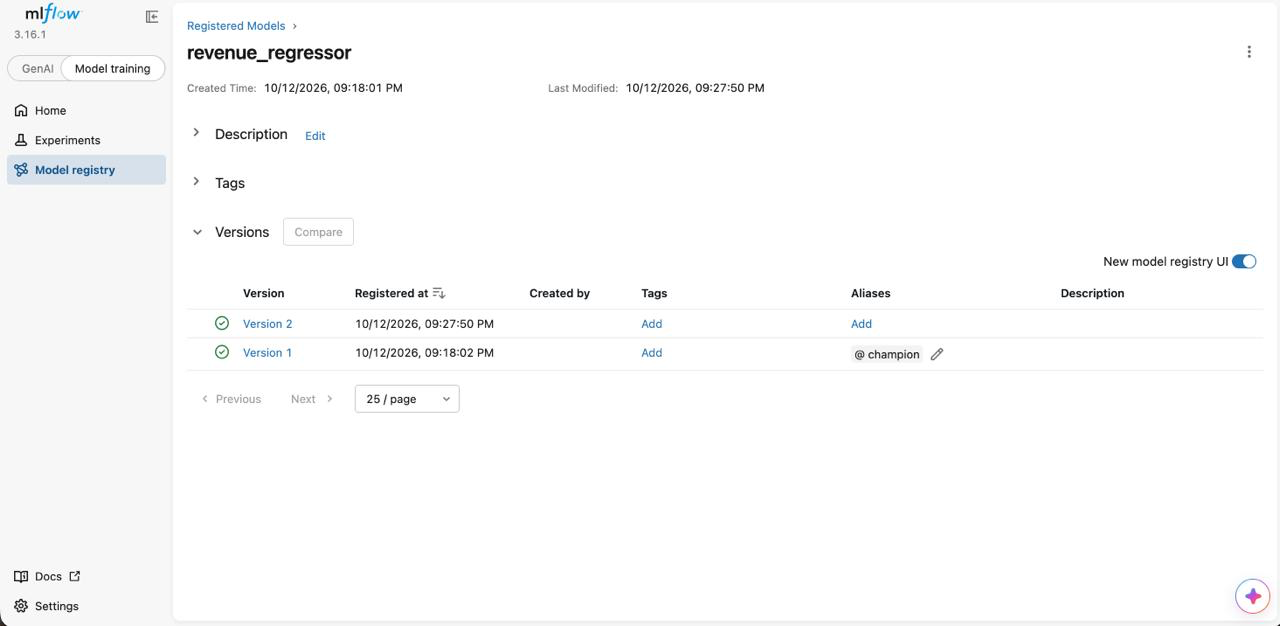
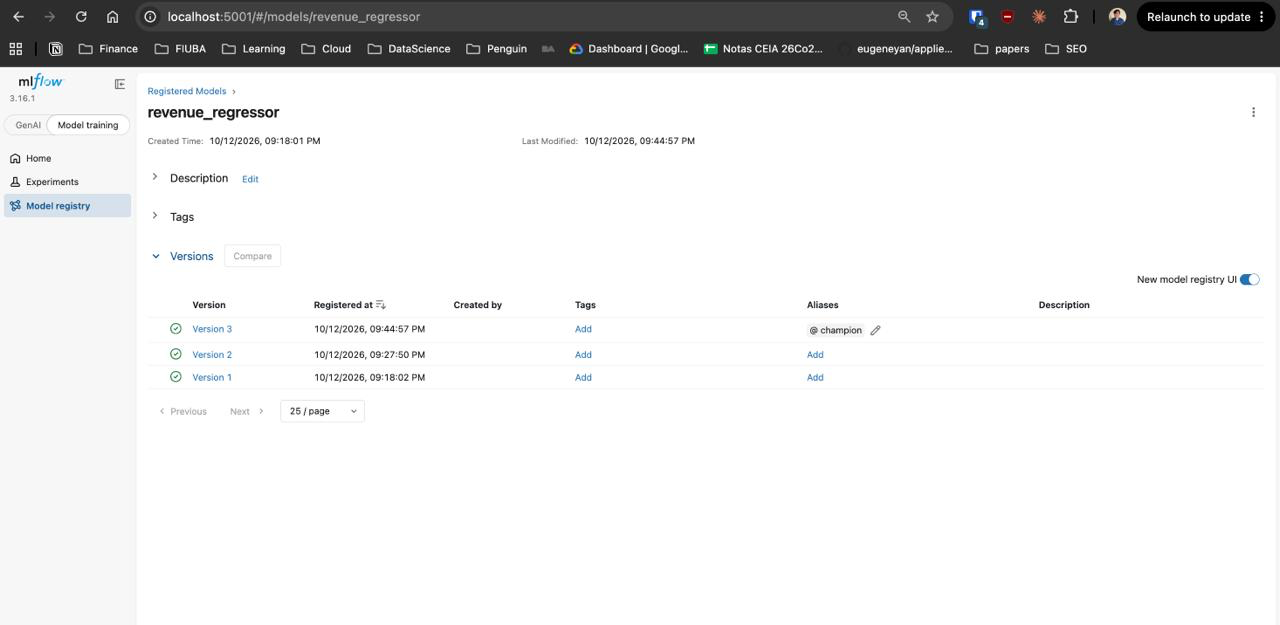
doc: added images

diff --git a/README.md b/README.md
@@ -232,6 +232,8 @@ En http://localhost:5001:
 
 Documentación interactiva en http://localhost:8800/docs, con un ejemplo listo para probar con `Try it out`.
 
+![API](images/API.png)
+
 | Endpoint | Qué hace |
 |---|---|
 | `POST /predict` | Recibe los datos de una película y devuelve la recaudación estimada en USD y la versión del modelo que la calculó. |
